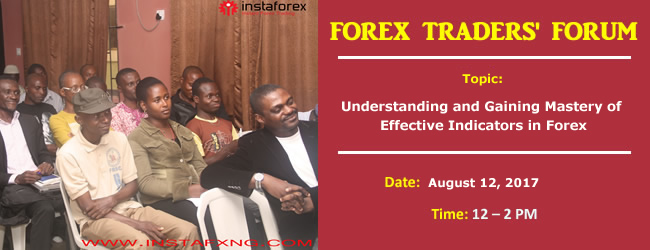
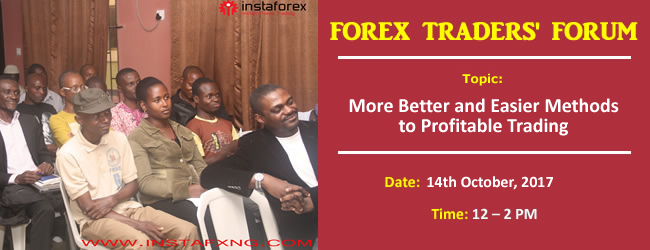
trader forum and home page update

Changed region(s): [[0.5231, 0.392, 0.9538, 0.56], [0.6462, 0.7, 0.8615, 0.756]]

diff --git a/public_html/traders_forum.php b/public_html/traders_forum.php
@@ -76,7 +76,8 @@ if ($_SERVER['REQUEST_METHOD'] == 'POST') {
 
             <p>Thank you for reserving a seat at the next Forex Traders Forum.</p>
 
-            <p>At the Forum this month, we will discuss the topic Insight on Crypto-currency & its application in Forex Trading.</p>
+            <p>At the Forum this month, we will discuss more Better and Easier methods to
+            Profitable Trading.</p>
 
             <p>You will also have the opportunity of meeting other Forex traders and you
             could be one of two lucky winners to win $20 trading bonus. Isn’t that cool?</p>
@@ -84,7 +85,7 @@ if ($_SERVER['REQUEST_METHOD'] == 'POST') {
             <p>Please mark your calendar for this date; we will also remind you via sms.</p>
 
             <p>Your Venue: $chosen_venue<br /><br />
-            Date: 9th of September, 2017<br /><br />
+            Date: 14th of October, 2017<br /><br />
             Time: 12 - 2pm</p>
 
             <br /><br />
@@ -161,9 +162,9 @@ MAIL;
                     <div class="super-shadow page-top-section">
                         <div class="row">
                             <div class="col-sm-6">
-                                <h3 style="margin: 0;">Insight on Crypto-currency & its application in Forex Trading</h3>
+                                <h3 style="margin: 0;">More Better and Easier Methods to Profitable Trading</h3>
                                 <p style="margin-top: 0">
-                                    Join us on Saturday, 9th of September as we examine explore crypto-currency and how you can use it to trade Forex profitably.
+                                    Join us on Saturday, 14th of October as we examine more Better and Easier methods to Profitable Trading.
                                         Time: 12 - 2pm.<br />
                                     <strong>Reserve your seat below to stand a chance to win $20.</strong>
                                 </p>
@@ -188,9 +189,9 @@ MAIL;
                                     success. They share their experiences, learn from other traders, meet new
                                     people and go home with lots of exciting prizes such bonus account and Instaforex
                                     branded materials. </p>
-                                <p>Join us on Saturday, 9th of September, 2017 for another exciting edition of
-                                    Nigerian Forex traders Forum as we explore crypto-currency and how you can use it
-                                    to trade Forex profitably.</p>
+                                <p>Join us on Saturday, 14th of October, 2017 for another exciting edition of
+                                    Nigerian Forex traders Forum as we examine more Better and Easier methods
+                                    to Profitable Trading.</p>
                             </div>
                         </div>
 
@@ -276,9 +277,9 @@ MAIL;
                                             <div class="radio">
                                                 <label><input id="venue" type="radio" name="venue" value="Diamond Estate" checked required>Block 1A, Plot 8, Diamond Estate, LASU/Isheri road, Isheri Olofin, Lagos.</label>
                                             </div>
-                                            <div class="radio">
-                                                <label><input id="venue" type="radio" name="venue" value="Ajah Office" required>Block A3, Suite 508/509 Eastline Shopping Complex, Opposite Abraham Adesanya Roundabout, along Lekki - Epe expressway, Lagos.</label>
-                                            </div>
+<!--                                            <div class="radio">-->
+<!--                                                <label><input id="venue" type="radio" name="venue" value="Ajah Office" required>Block A3, Suite 508/509 Eastline Shopping Complex, Opposite Abraham Adesanya Roundabout, along Lekki - Epe expressway, Lagos.</label>-->
+<!--                                            </div>-->
                                             <span class="glyphicon form-control-feedback" aria-hidden="true"></span>
                                         </div>
                                         <div class="form-group">

diff --git a/public_html/index.php b/public_html/index.php
@@ -37,16 +37,14 @@ $thisPage = "Home";
                     <div class="super-shadow page-top-section">
                         <div class="row ">
                             <div class="col-sm-6">
-                                <h2>5 Reasons You Should Keep a Forex Trading Journal</h2>
-                                <p>Do you often wonder why you need to keep a trading journal for your Forex
-                                    trading activities since your broker provide a real-time records of your
-                                    trade?</p>
-                                <p>There are a lot of benefits to keeping a separate and manual trading journal
-                                    <a href="https://instafxng.com/news1/id/534/u/5-reasons-you-should-keep-forex-trading-journal/"> ... read more</a></p>
+                                <h2>More Better and Easier Methods to Profitable Trading</h2>
+                                <p>Join us on Saturday, 14th of October as we examine more Better and Easier methods
+                                    to Profitable Trading. Time: 12 - 2pm. <a href="traders_forum.php">Click here</a>
+                                    to reserve your seat below to stand a chance to win $20.</p>
                             </div>
 
                             <div class="col-sm-6">
-                                <a href="https://instafxng.com/news1/id/534/u/5-reasons-you-should-keep-forex-trading-journal/" title="click for details"><img src="images/forex-journal.jpg" alt="" class="img-responsive" /></a>
+                                <a href="https://instafxng.com/traders_forum.php" title="click for details"><img src="images/forex-traders-forum-smart-investors.jpg" alt="" class="img-responsive" /></a>
                             </div>
                         </div>
                     </div>
